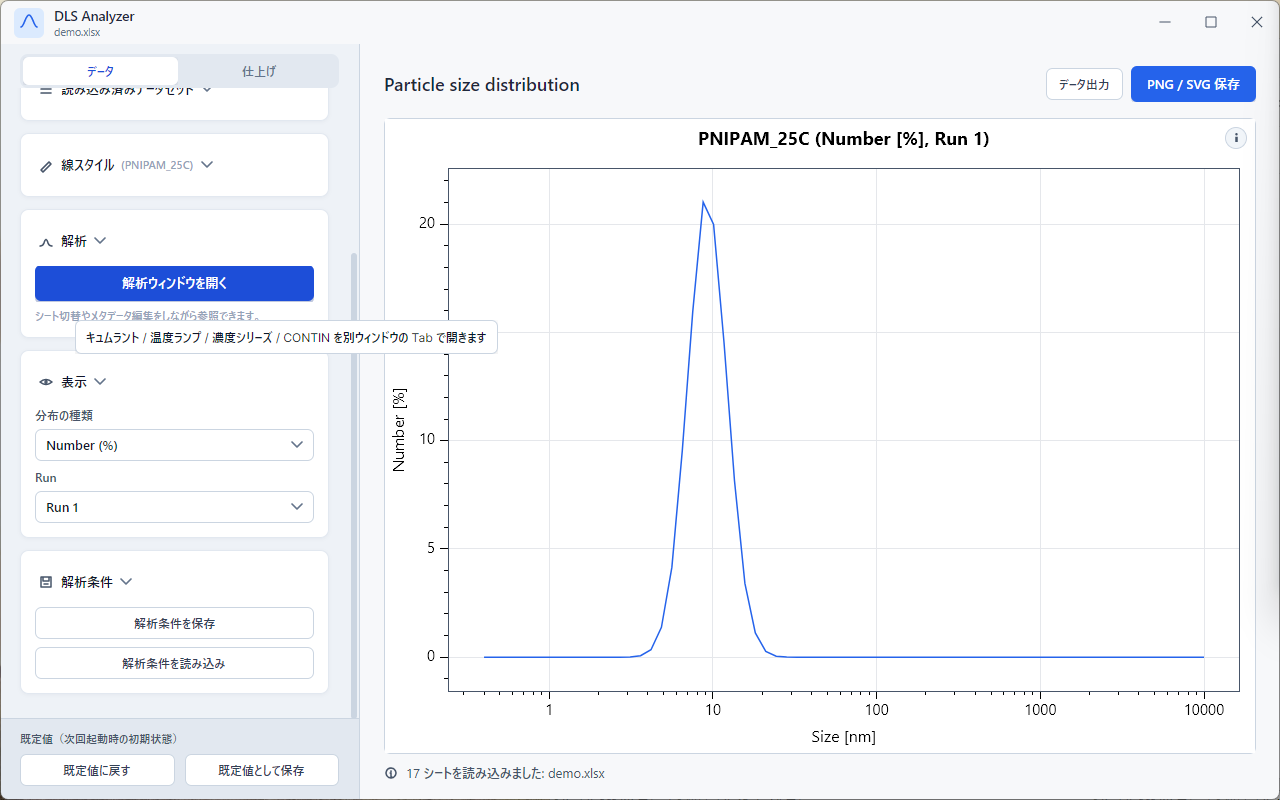
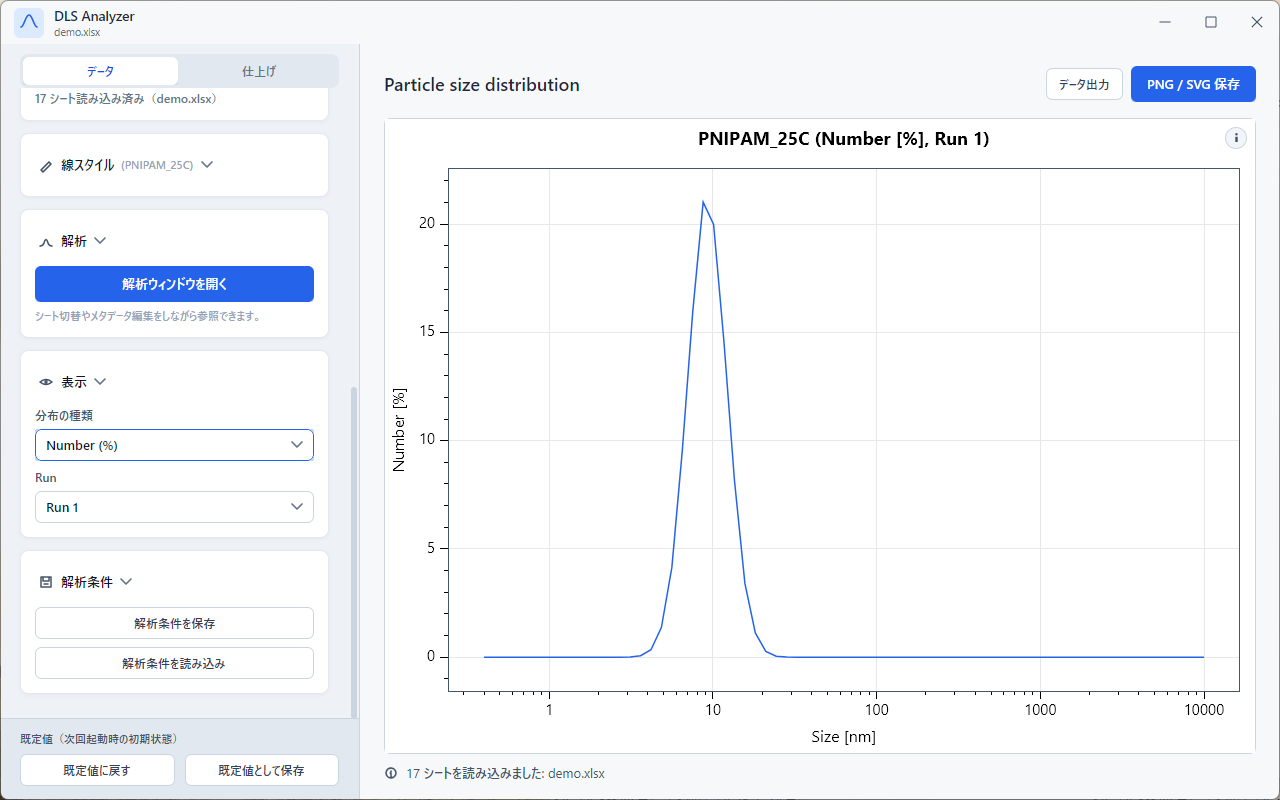
Add Data Viewer screenshots and retake the DLS session shot
Capture 4 Data Viewer screenshots (empty startup state, a synthetic
4-column temperature sweep CSV rendered as 3 overlaid sigmoid
transmittance series, the finishing-tab sidebar layout, and the
view-condition save/load section) and embed them in viewer.md,
which previously had no images planned at all. Also retake the DLS
session screenshot because the prior one had a hover tooltip
floating over the sidebar; capture now parks the cursor outside
the window first. The synthetic CSV lives only in the session
scratchpad and is not added to the repository.

Changed region(s): [[0.0625, 0.3125, 0.375, 0.4688], [0.0312, 0.0938, 0.1562, 0.1562], [0.0938, 0.3438, 0.1875, 0.375]]

diff --git a/docs/user-guide/viewer.md b/docs/user-guide/viewer.md
@@ -6,7 +6,7 @@ Data Viewer は、装置やファイル形式を限定せずに**任意の表形
 
 ポータルの **Viewer カード**（または `Ctrl+4` / macOS は `Cmd+4`）から開きます。
 
-> （スクリーンショット予定: docs/user-guide/images/viewer/00-startup.png）
+![起動直後の空状態](images/viewer/00-startup.png)
 
 ---
 
@@ -23,7 +23,7 @@ Data Viewer は、装置やファイル形式を限定せずに**任意の表形
 - 1 行目が数値でない場合はヘッダ行として列名に使われます。ヘッダがないファイルは `Column 1, 2, ...` という名前になります
 - 空セルや数値でないセルは欠損（ギャップ）として扱われ、その点だけ線が途切れます
 
-> （スクリーンショット予定: docs/user-guide/images/viewer/10-data-loaded.png）
+![多列 CSV を読み込んで複数系列を重ね描きした状態](images/viewer/10-data-loaded.png)
 
 ## 2. サイドバー構成（データ / 仕上げの 2 タブ）
 
@@ -41,7 +41,7 @@ Data Viewer は、装置やファイル形式を限定せずに**任意の表形
 | 仕上げ | グラフラベル | タイトル・X / Y 軸ラベルの文言と太字設定 |
 | 仕上げ | グラフ書式 | フォント・余白・アスペクト比などのグラフ全体の書式 |
 
-> （スクリーンショット予定: docs/user-guide/images/viewer/20-sidebar-tabs.png）
+![データ / 仕上げの 2 タブ構成（仕上げタブ表示中）](images/viewer/20-sidebar-tabs.png)
 
 読み込み直後は「**最初の数値列が X、残りの数値列が Y**」として自動でプロットされます（自動で ON になる Y は先頭 8 列まで）。X 列に割り当てた列は「系列」一覧には出ません（数値列がその 1 本しかないテーブルは例外として残ります）。
 
@@ -89,7 +89,7 @@ Data Viewer は、装置やファイル形式を限定せずに**任意の表形
 
 表示条件（`.gvjson`）には、テーブル・X 列マッピング・系列一覧（表示順・スタイル・凡例名・変換）・軸設定・グラフ書式が含まれます。ファイル由来のテーブルは**パス参照**なので元ファイルが必要ですが、クリップボード由来のテーブルは**データごと埋め込まれる**ため、`.gvjson` 単体で復元できます。
 
-> （スクリーンショット予定: docs/user-guide/images/viewer/50-session.png）
+![表示条件セクションを展開して保存・読み込みボタンを表示した状態](images/viewer/50-session.png)
 
 ## 7. その他の操作
 
